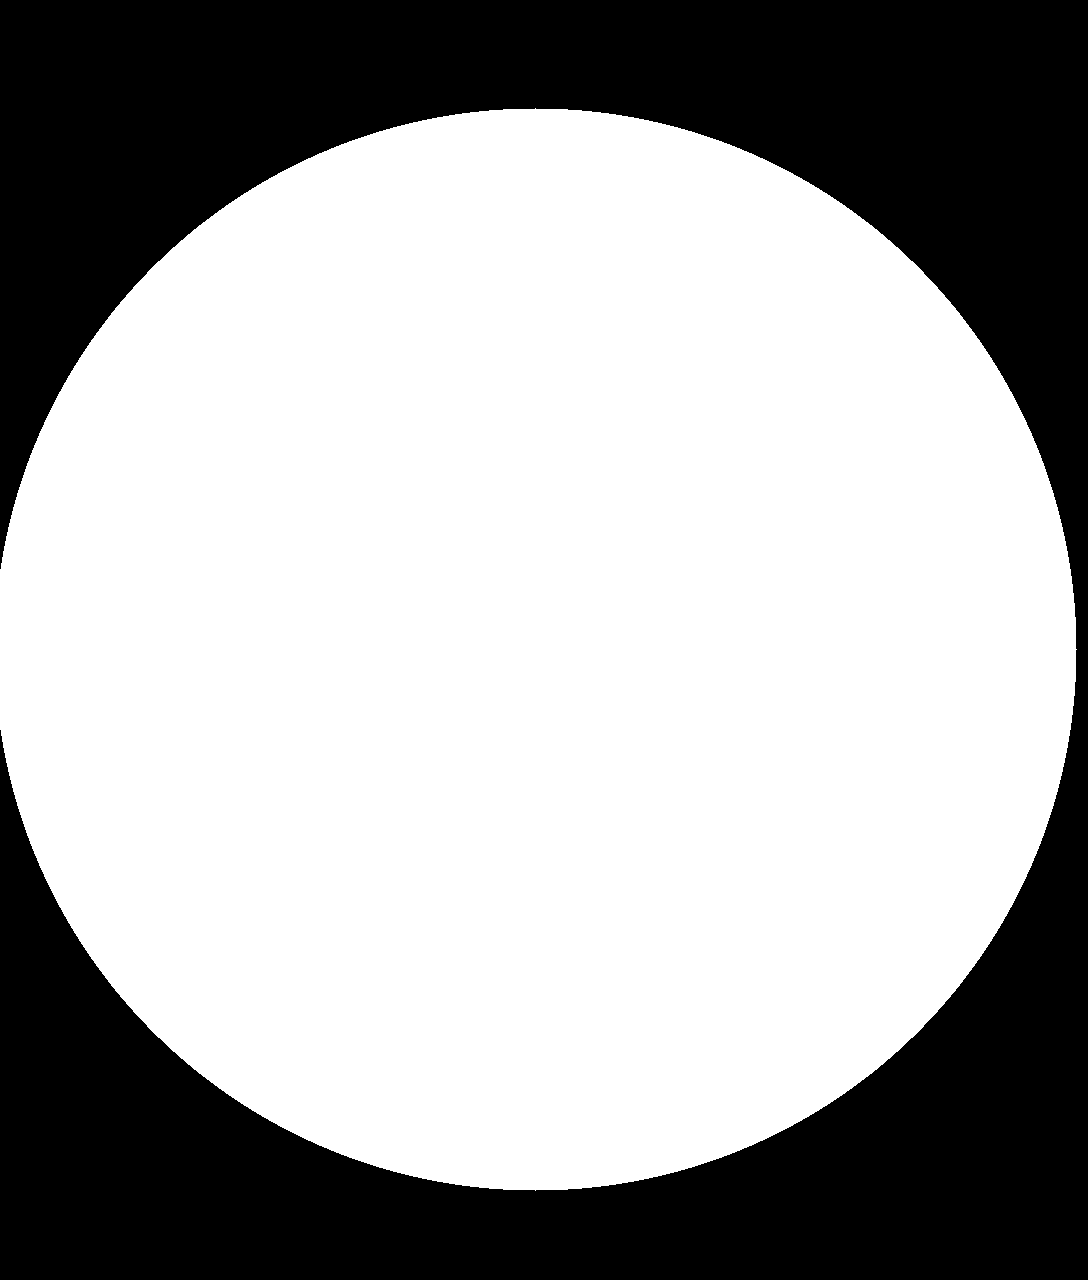
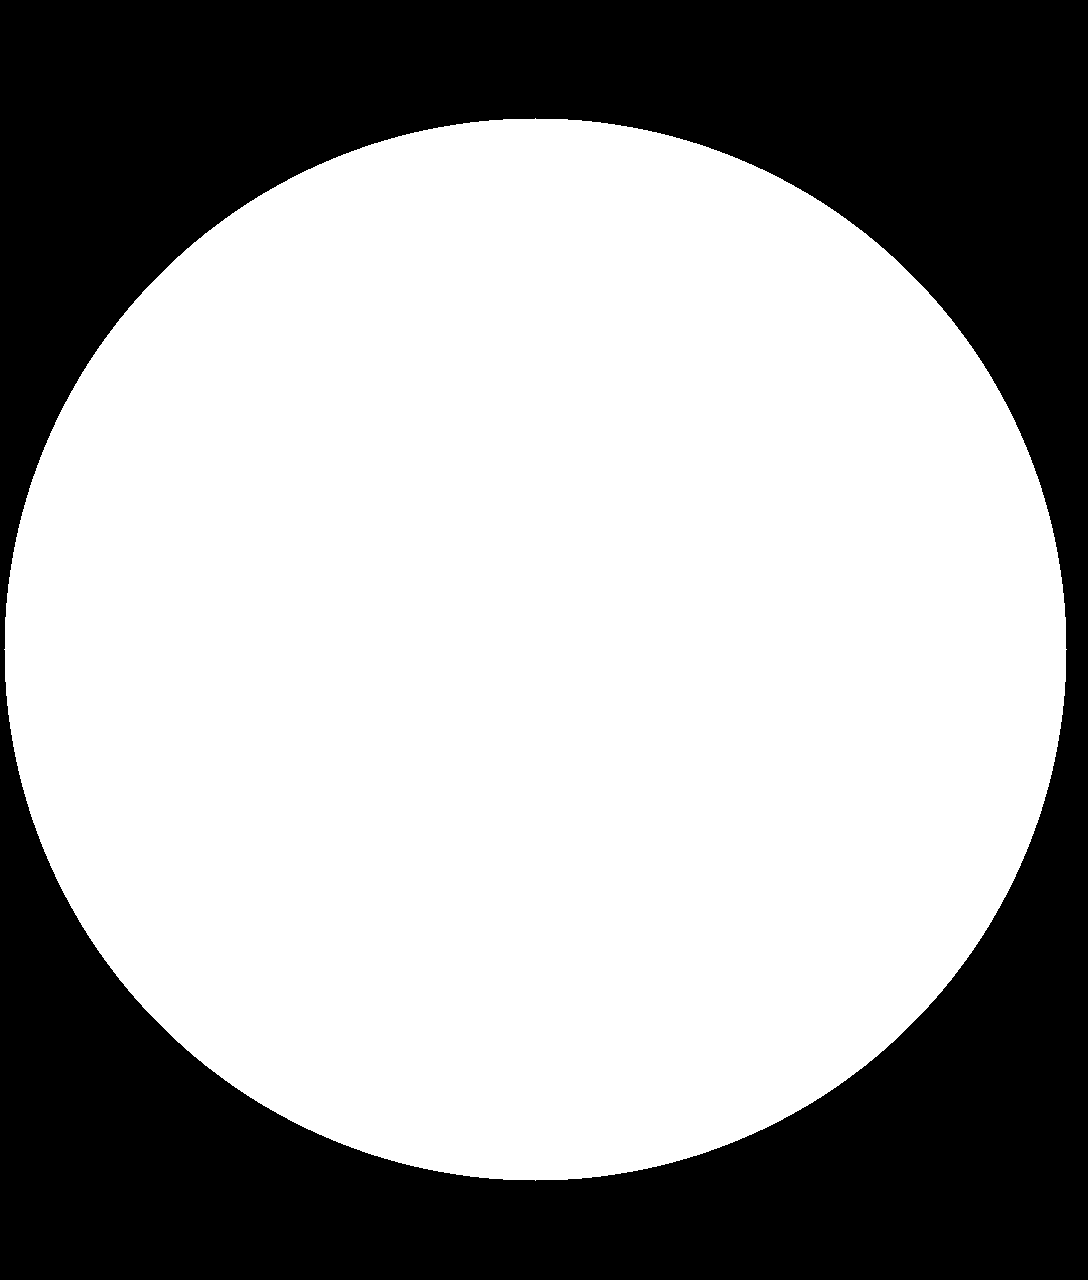
11.6 改着色逻辑

diff --git a/tests/camera_mask_test.cpp b/tests/camera_mask_test.cpp
@@ -3,6 +3,7 @@
 #include <Eigen/LU>
 #include <opencv2/core.hpp>
 #include <opencv2/imgproc.hpp>
+#include <omp.h>
 #include <algorithm>
 #include <cassert>
 #include <cmath>
@@ -28,7 +29,20 @@ struct CameraFixture
   bool isInFrame(const Eigen::Vector2i &p, int border) const
   { return p.x() >= border && p.y() >= border && p.x() < 256-border && p.y() < 256-border; }
 };
-struct FrameFixture { V3D w2f(const V3D &p) const { return p; } };
+struct FrameFixture
+{
+  Eigen::Matrix3d rotation = Eigen::Matrix3d::Identity();
+  V3D translation = V3D::Zero();
+  V3D w2f(const V3D &p) const { return rotation * p + translation; }
+};
+struct PointType { float x, y, z; };
+struct PointTypeRGB { float x, y, z; uint8_t r, g, b; };
+struct ColorInputFixture
+{
+  std::vector<PointType> points;
+  size_t size() const { return points.size(); }
+};
+constexpr int MP_PROC_NUM = 4;
 
 #include "camera_mask_impl.inc"
 
@@ -59,10 +73,8 @@ void testColorRejectsEveryTapAndUsesOtherCamera()
       V3F color = V3F::Constant(-1);
       require(!manager.getColorFromCamera(0, point, color), "any invalid bilinear tap rejects color");
       require((color.array() == -1).all(), "reject occurs before changing the color output");
-      int selected = -1;
-      for (int i = 0; i < manager.numCameras(); ++i)
-        if (manager.getColorFromCamera(i, point, color)) { selected = i; break; }
-      require(selected == 1 && (color-V3F(30,60,90)).norm() < 1e-5, "other camera supplies valid color");
+      require(manager.getColorFromCamera(1, point, color) && (color-V3F(30,60,90)).norm() < 1e-5,
+              "other camera supplies valid color");
       manager.cameras_[1].setImageMask(mask);
       require(!manager.getColorFromCamera(1, point, color), "all masked cameras yield no color");
       manager.cameras_[1].setImageMask(cv::Mat());
@@ -77,6 +89,94 @@ void testColorRejectsEveryTapAndUsesOtherCamera()
   manager.cameras_[0].setImageMask(cv::Mat(256,256,CV_8UC1,cv::Scalar(255)));
   manager.cameras_[0].img_rgb.setTo(cv::Scalar(0,0,0));
   require(manager.getColorFromCamera(0, point, color) && color.norm() == 0, "valid black scene is not masked");
+}
+
+void testColorFrontHemispherePerCamera()
+{
+  CameraFixture camera;
+  VIOManager manager;
+  manager.cameras_.resize(2);
+  for (auto &ctx : manager.cameras_)
+  {
+    ctx.cam = &camera;
+    ctx.new_frame = std::make_shared<FrameFixture>();
+    ctx.img_rgb = cv::Mat(256,256,CV_8UC3,cv::Scalar(30,60,90));
+  }
+  // Opposite-facing camera: a world point behind camera 0 is in front of camera 1.
+  auto &opposite = *manager.cameras_[1].new_frame;
+  opposite.rotation(0,0) = -1;
+  opposite.rotation(2,2) = -1;
+  opposite.translation.x() = 200;
+  V3F color = V3F::Constant(-1);
+  for (double z : {-1.0, 0.0})
+  {
+    require(!manager.getColorFromCamera(0,V3D(100,110,z),color), "camera z <= 0 is excluded");
+    require((color.array() == -1).all(), "hemisphere rejection happens before sampling");
+  }
+  require(manager.getColorFromCamera(0,V3D(100,110,1e-6),color), "strictly positive camera z is allowed");
+  require(!manager.getColorFromCamera(1,V3D(100,110,1),color), "each camera applies its own orientation");
+  require(manager.getColorFromCamera(1,V3D(100,110,-1),color), "world negative z may be camera positive z");
+  require(!manager.getColorFromCamera(1,V3D(100,110,0),color), "opposite camera also excludes z = 0");
+}
+
+void testEveryValidCameraObservationIsEmitted()
+{
+  CameraFixture camera;
+  VIOManager manager;
+  manager.cameras_.resize(3);
+  for (int id = 0; id < manager.numCameras(); ++id)
+  {
+    auto &ctx = manager.cameras_[id];
+    ctx.cam = &camera;
+    ctx.new_frame = std::make_shared<FrameFixture>();
+    ctx.img_rgb = cv::Mat(256,256,CV_8UC3,cv::Scalar(10+id,20+id,30+id));
+  }
+  auto input = std::make_shared<ColorInputFixture>();
+  input->points = {{100.25f,110.5f,1.0f},{130.25f,135.5f,1.0f}};
+  auto output = colorCloud(&manager,input);
+  require(output.size() == 6, "two points visible in three cameras emit six observations");
+  for (size_t i = 0; i < output.size(); ++i)
+  {
+    const auto &point = input->points[i%2];
+    require(output[i].x == point.x && output[i].y == point.y && output[i].z == point.z,
+            "camera-major output retains each observation's original XYZ");
+    require(output[i].r == 30+i/2 && output[i].g == 20+i/2 && output[i].b == 10+i/2,
+            "each copy retains its own camera's RGB");
+  }
+  cv::Mat mask(256,256,CV_8UC1,cv::Scalar(255));
+  mask.at<uchar>(110,100) = 0;
+  manager.cameras_[1].setImageMask(mask);
+  output = colorCloud(&manager,input);
+  require(output.size() == 5 && output[2].x == input->points[1].x && output[2].r == 31,
+          "one camera's mask removes only its invalid observation, without stale output");
+  manager.cameras_[2].new_frame->translation.z() = -2;
+  output = colorCloud(&manager,input);
+  require(output.size() == 3, "rear-facing observations are excluded per camera in the actual output loop");
+  require(colorCloud(&manager,input,1000).empty(), "distance rejection cannot reuse previous camera output");
+  for (auto &ctx : manager.cameras_) ctx.setImageMask(cv::Mat::zeros(256,256,CV_8UC1));
+  require(colorCloud(&manager,input).empty(), "all masked observations emit nothing");
+
+  for (auto &ctx : manager.cameras_)
+  {
+    ctx.setImageMask(cv::Mat());
+    ctx.new_frame->translation.setZero();
+  }
+  input->points.clear();
+  for (int i = 0; i < 2048; ++i) input->points.push_back({100.25f+i%31,110.5f,1.0f});
+  const int old_threads = omp_get_max_threads();
+  omp_set_num_threads(1);
+  const auto serial = colorCloud(&manager,input);
+  omp_set_num_threads(4);
+  const auto parallel = colorCloud(&manager,input);
+  omp_set_num_threads(old_threads);
+  require(serial.size() == 6144 && parallel.size() == serial.size(), "parallel path preserves all camera observations");
+  for (size_t i = 0; i < serial.size(); ++i)
+  {
+    const auto &a = serial[i];
+    const auto &b = parallel[i];
+    require(a.x==b.x && a.y==b.y && a.z==b.z && a.r==b.r && a.g==b.g && a.b==b.b,
+            "parallel emission has deterministic camera and point order");
+  }
 }
 
 void testRawSamplingAndRoi()
@@ -177,10 +277,12 @@ int main()
   try
   {
     testColorRejectsEveryTapAndUsesOtherCamera();
+    testColorFrontHemispherePerCamera();
+    testEveryValidCameraObservationIsEmitted();
     testRawSamplingAndRoi();
     testPatchesAndReferenceCamera();
     testFilteredSupportAndOpticalFlow();
-    std::cout << "camera_mask_test passed: production color, sampling, ROI, patch and filter checks\n";
+    std::cout << "camera_mask_test passed: production multi-camera emission, front hemisphere, mask and sampling checks\n";
     return 0;
   }
   catch (const std::exception &error)

diff --git a/src/LIVMapper_multi_cam.cpp b/src/LIVMapper_multi_cam.cpp
@@ -2785,6 +2785,7 @@ void LIVMapper::publish_frame_world(const ros::Publisher &pubLaserCloudFullRes, 
     int active_color_workers = 1;
 
     std::vector<uint8_t> colored(pcl_wait_pub->size(), 0);
+    std::vector<uint8_t> camera_colored(pcl_wait_pub->size(), 0);
     std::vector<PointTypeRGB> rgb_points(pcl_wait_pub->size());
     std::vector<size_t> projection_rejects(camera_count, 0);
     std::vector<size_t> blind_rejects(camera_count, 0);
@@ -2806,29 +2807,31 @@ void LIVMapper::publish_frame_world(const ros::Publisher &pubLaserCloudFullRes, 
     std::vector<std::vector<double>> thread_b_sum(
         color_worker_count, std::vector<double>(camera_count, 0.0));
 
-    // Each point is independent; camera order stays serial per point to preserve first-hit priority.
+    // Emit every valid camera observation, including repeated XYZ in overlapping views.
+    // Reuse one camera's buffers; compact in input order after its workers finish.
     const double color_start = omp_get_wtime();
-#pragma omp parallel num_threads(color_worker_count) if(point_count >= 1024)
+    laserCloudWorldRGB->reserve(pcl_wait_pub->size());
+    for (int camera_id = 0; camera_id < camera_count; ++camera_id)
     {
+#pragma omp parallel num_threads(color_worker_count) if(point_count >= 1024)
+      {
 #pragma omp single
-      active_color_workers = omp_get_num_threads();
+        active_color_workers = omp_get_num_threads();
 
-      const int thread_id = omp_get_thread_num();
-      std::vector<size_t> &local_projection_rejects = thread_projection_rejects[thread_id];
-      std::vector<size_t> &local_blind_rejects = thread_blind_rejects[thread_id];
-      std::vector<size_t> &local_color_hits = thread_color_hits[thread_id];
-      std::vector<double> &local_r_sum = thread_r_sum[thread_id];
-      std::vector<double> &local_g_sum = thread_g_sum[thread_id];
-      std::vector<double> &local_b_sum = thread_b_sum[thread_id];
+        const int thread_id = omp_get_thread_num();
+        std::vector<size_t> &local_projection_rejects = thread_projection_rejects[thread_id];
+        std::vector<size_t> &local_blind_rejects = thread_blind_rejects[thread_id];
+        std::vector<size_t> &local_color_hits = thread_color_hits[thread_id];
+        std::vector<double> &local_r_sum = thread_r_sum[thread_id];
+        std::vector<double> &local_g_sum = thread_g_sum[thread_id];
+        std::vector<double> &local_b_sum = thread_b_sum[thread_id];
 
 #pragma omp for schedule(static)
-      for (long long point_index = 0; point_index < point_count; ++point_index)
-      {
-        const size_t i = static_cast<size_t>(point_index);
-        const PointType &point = pcl_wait_pub->points[i];
-
-        for (int camera_id = 0; camera_id < camera_count; ++camera_id)
+        for (long long point_index = 0; point_index < point_count; ++point_index)
         {
+          const size_t i = static_cast<size_t>(point_index);
+          const PointType &point = pcl_wait_pub->points[i];
+          camera_colored[i] = 0;
           V3F bgr;
           double camera_range = 0.0;
           if (!vio_manager->getColorFromCamera(
@@ -2851,14 +2854,16 @@ void LIVMapper::publish_frame_world(const ros::Publisher &pubLaserCloudFullRes, 
           output.g = static_cast<uint8_t>(std::clamp(bgr[1], 0.0f, 255.0f));
           output.b = static_cast<uint8_t>(std::clamp(bgr[0], 0.0f, 255.0f));
           rgb_points[i] = output;
+          camera_colored[i] = 1;
           colored[i] = 1;
           ++local_color_hits[camera_id];
           local_r_sum[camera_id] += output.r;
           local_g_sum[camera_id] += output.g;
           local_b_sum[camera_id] += output.b;
-          break;
         }
       }
+      for (size_t i = 0; i < rgb_points.size(); ++i)
+        if (camera_colored[i]) laserCloudWorldRGB->push_back(rgb_points[i]);
     }
 
     for (int thread_id = 0; thread_id < color_worker_count; ++thread_id)
@@ -2874,14 +2879,12 @@ void LIVMapper::publish_frame_world(const ros::Publisher &pubLaserCloudFullRes, 
       }
     }
     const double color_elapsed = omp_get_wtime() - color_start;
-    laserCloudWorldRGB->reserve(pcl_wait_pub->size());
-    for (size_t i = 0; i < rgb_points.size(); ++i)
-      if (colored[i]) laserCloudWorldRGB->push_back(rgb_points[i]);
     const bool has_camera_color = !laserCloudWorldRGB->empty();
-    printf("[ VIO Color ] input=%zu colored=%zu retained=%zu output_schema=rgb mode=%s\n",
+    printf("[ VIO Color ] input=%zu colored=%zu retained=%zu output_points=%zu output_schema=rgb mode=%s\n",
            pcl_wait_pub->size(),
            static_cast<size_t>(std::count(colored.begin(), colored.end(), static_cast<uint8_t>(1))),
            has_camera_color ? 0UL : pcl_wait_pub->size(),
+           laserCloudWorldRGB->size(),
            has_camera_color ? "camera_color" : "empty_rgb_retry");
     printf("[ VIO Color Timing ] elapsed=%.6f s workers=%d points=%lld cameras=%d\n",
            color_elapsed, active_color_workers, point_count, camera_count);

diff --git a/tests/extract_camera_mask.py b/tests/extract_camera_mask.py
@@ -51,4 +51,17 @@ output.append("};")
 for signature in methods:
     result, name = signature.split(" ", 1)
     output.append(definition(source, result + " VIOManager::" + name + "("))
+
+# Exercise the actual multi-camera emission loop, including its OpenMP region,
+# with simple point containers instead of requiring ROS publishers and PCL.
+mapper_path = root / "src/LIVMapper_multi_cam.cpp"
+mapper = mapper_path.read_text(encoding="utf-8")
+publish_start = mapper.index("void LIVMapper::publish_frame_world(")
+color_start = mapper.index("    const int camera_count = vio_manager->numCameras();", publish_start)
+color_end = mapper.index("\n  }\n  else\n", color_start)
+output += ["std::vector<PointTypeRGB> colorCloud(VIOManager *vio_manager,\n"
+           "    const std::shared_ptr<ColorInputFixture> &pcl_wait_pub, double blind_rgb_points = 0.0) {\n"
+           "  auto laserCloudWorldRGB = std::make_shared<std::vector<PointTypeRGB>>();",
+           f'#line {mapper.count(chr(10), 0, color_start) + 1} "{mapper_path.as_posix()}"',
+           mapper[color_start:color_end], "  return *laserCloudWorldRGB;\n}"]
 args.output.write_text("\n".join(output), encoding="utf-8")

diff --git a/src/vio_multi_cam.cpp b/src/vio_multi_cam.cpp
@@ -13112,6 +13112,8 @@ bool VIOManager::getColorFromCamera(int camera_id, const V3D &p_w, V3F &bgr, dou
   if (!ctx.image_mask.empty() && ctx.img_rgb.size() != ctx.image_mask.size()) return false;
   const V3D point_c = ctx.new_frame->w2f(p_w);
   if (!point_c.array().isFinite().all()) return false;
+  // Color only the front hemisphere of this camera; visual tracking keeps its full FoV.
+  if (point_c.z() <= 0.0) return false;
   if (cam_range != nullptr) *cam_range = point_c.norm();
   const V2D pixel = ctx.cam->world2cam(point_c);
   if (!pixel.array().isFinite().all() || !ctx.cam->isInFrame(pixel.cast<int>(), 1)) return false;

diff --git a/mask/README.md b/mask/README.md
@@ -10,13 +10,14 @@
 | bright | `/fisheye/bright/image_raw` | 暂无 | `mask_path: ""`，尚未过滤 |
 
 两张 PNG 均为 **1088×1280、8 位单通道**，白色有效、黑色无效。
-圆内设备平台、线缆以及真实黑色物体保留。圆边界根据图片估计，未额外内缩。
+圆内设备平台、线缆以及真实黑色物体保留。圆边界根据图片估计；当前版本圆心保持 left `(535,649)`、right `(550,631)`，半径从 541 向内缩 10 像素至 531。
 
 - 初始化时读取一次，之后只查询内存中的 mask。相对路径以构建时项目根目录为基准，也支持绝对路径。
 - 文件必须对应实际用于 VIO 的图像坐标和尺寸。当前 MEI 配置 `scale: 1.0` 且不开启输入去畸变，因此直接使用这两张原图坐标的 mask。
 - 指定路径但文件读取失败或尺寸不匹配时，初始化报错；不静默忽略、不自动拉伸。若改变缩放或启用去畸变，应同时提供相应坐标下的 mask。
 - 视觉侧检查选点评分、插值、梯度、patch 和滤波的实际像素范围。参考帧使用对应参考相机的 mask，ROI 采样换回完整图像坐标。
-- 着色在读取颜色之前检查双线性插值的四个像素。失败则尝试下一台相机；所有相机均无有效颜色时，不加入彩色点云，LiDAR 几何仍保留。
+- 着色逐台相机遍历点云，仅接受变换到该相机坐标系后 `z > 0` 的点（前方 180° 半球，`z = 0` 也排除），并在读取颜色之前检查该镜头 mask 中双线性插值的四个像素。每个有效相机观测都输出一份；同一个三维点在多个镜头中有效时，会保留坐标相同、颜色分别来自对应镜头的多份点。所有相机均无有效颜色时，不加入彩色点云，LiDAR 几何仍保留。前半球限制只用于着色，不改变视觉跟踪的视场。
+- 日志 `colored` 是至少在一台相机中成功着色的输入点数，`output_points` 是实际输出的 RGB 条目数（包含重叠视野中的重复坐标）。原始 RGB 发布和保存保留这些条目；下采样导出仍按原来的体素过滤设置处理。
 - 设 `mask_path: ""` 可单独关闭某一路。第三路 bright 尚未提供 mask，仍可能从该路黑边取色；不能用 left/right 的 mask 代替。
 
 当前 ROS1 分支的单相机 `mapping_mid360_mei.launch` 也使用多相机节点，并将 left 配置为 camera0。
